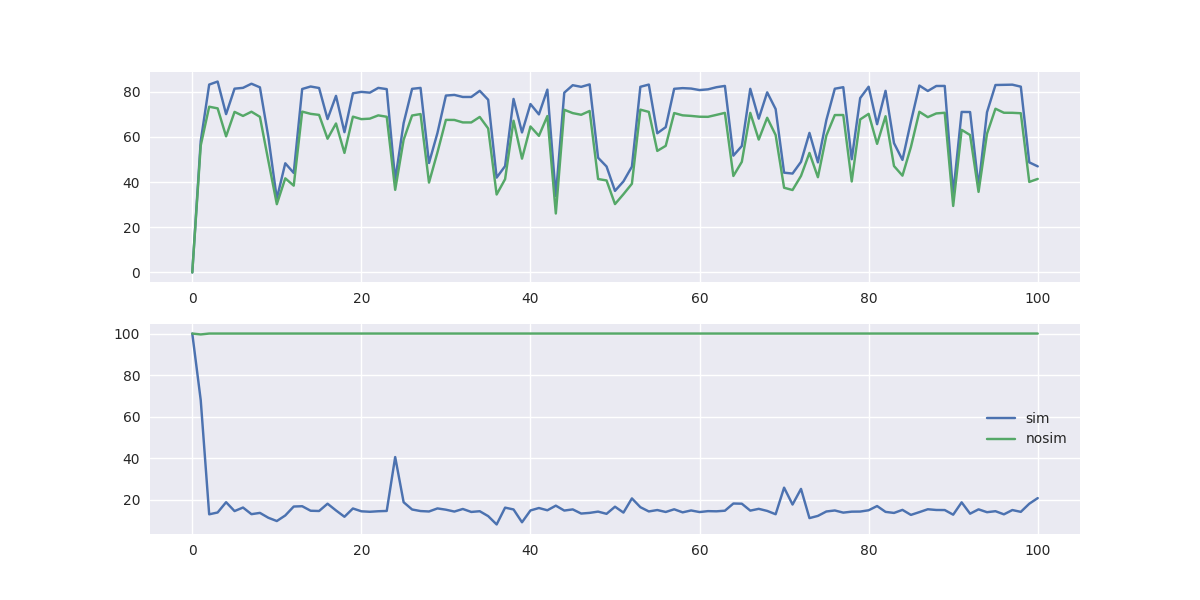
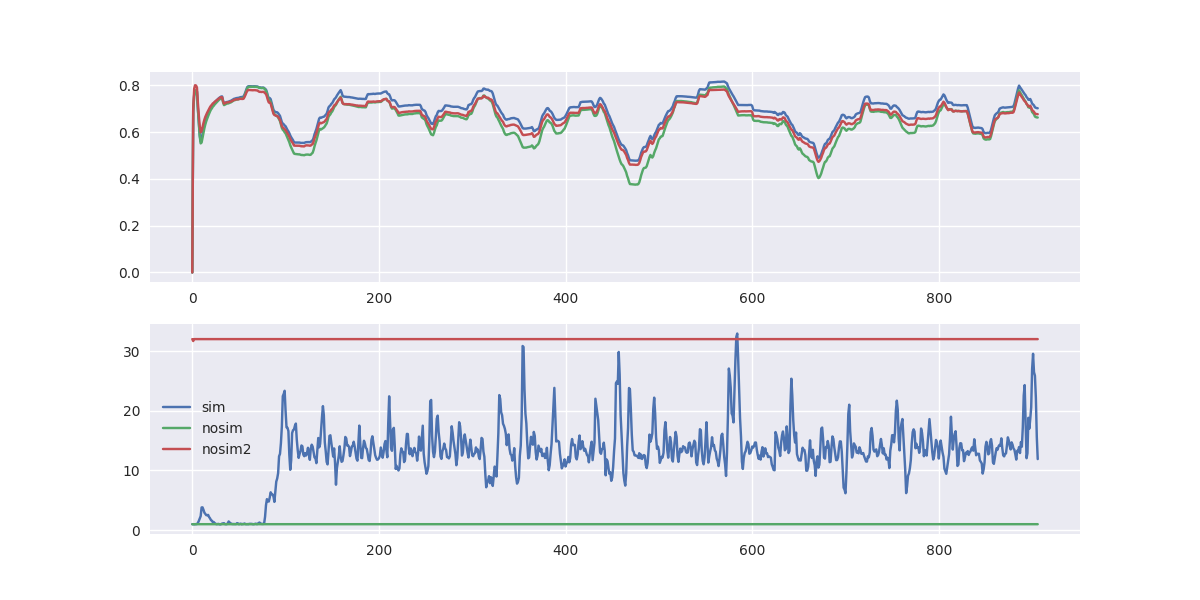
1024b

diff --git a/plots/D4.2/main.py b/plots/D4.2/main.py
@@ -80,7 +80,7 @@ def RunAndGetHitRateAndParam(policy, buffer_size, ptrace, param):
     tsum_hr = 0
     tsum_p = 0
 
-    down_sample_group_size = len(hrs) // total_size
+    down_sample_group_size = 100
     for idx, (hr, p) in enumerate(zip(hrs, ps)):
         if (idx + 1) % down_sample_group_size == 0:
             dhrs.append(tsum_hr / down_sample_group_size)
@@ -91,16 +91,18 @@ def RunAndGetHitRateAndParam(policy, buffer_size, ptrace, param):
         tsum_hr += hr
     return dhrs, dps
 
-total_size = 500
-buffer_size = 0.1
-trace = 'msr_prn_0'
-p1 = [1, 1, 6, 4, 1.0, 20000, 0.5, 0.05, 0.00, 0.01, 1, 1024, 1000]
-p2 = [1, 1, 6, 4, 1.0, 20000, 0.5, 0.05, 0.00, 0.00, 1, 1024, 1000]
+total_size = 2000
+buffer_size = 0.001
+trace = 'proj_prxy'
+p1 = [1, 1, 6, 4, 1.0, 20000, 0.5, 0.05, 0.00, 0.01, 1, 1024, 10000]
+p2 = [1, 1, 6, 4, 1.0, 20000, 0.5, 0.05, 0.00, 0.00, 1, 1024, 10000]
+p3 = [64, 1, 6, 4, 1.0, 20000, 0.5, 0.05, 0.00, 0.00, 1, 1024, 10000]
 
 if __name__ == "__main__":
     # sim_hrs, sim_ps = GetHitRateAndParam('local/webmail_0.001_sim.log')
     sim_hrs, sim_ps = RunAndGetHitRateAndParam('RGC4', buffer_size, f'traces/{trace}.lis', p1)
     nosim_hrs, nosim_ps = RunAndGetHitRateAndParam('RGC4', buffer_size, f'traces/{trace}.lis', p2)
+    nosim_hrs2, nosim_ps2 = RunAndGetHitRateAndParam('RGC4', buffer_size, f'traces/{trace}.lis', p3)
     # nosim_hrs, nosim_ps = GetHitRateAndParam('local/webmail_0.001_nosim.log')
 
     X = np.arange(len(sim_hrs))
@@ -108,17 +110,10 @@ if __name__ == "__main__":
     fig, axes = plt.subplots(2, 1, figsize=(12, 6))
 
     ax = axes[0]
-    # x_smooth = np.linspace(X.min(), X.max(), 300)
-    # spl = make_interp_spline(X, sim_hrs)
-    # sim_hrs_smooth = spl(x_smooth)
-    # ax.plot(x_smooth, sim_hrs_smooth, label='sim')
     ax.plot(X, sim_hrs, label='sim')
 
-    # spl = make_interp_spline(X, nosim_hrs)
-    # nosim_hrs_smooth = spl(x_smooth)
-    # ax.plot(x_smooth, nosim_hrs_smooth, label='nosim')
     ax.plot(X, nosim_hrs, label='nosim')
-
+    ax.plot(X, nosim_hrs2, label='nosim2')
     # plt.legend()
     # plt.savefig(f'plots/D4.2/{trace}_1.png')
 
@@ -134,7 +129,7 @@ if __name__ == "__main__":
     # nosim_ps_smooth = spl(x_smooth)
     # ax.plot(x_smooth, nosim_ps_smooth, label='nosim')
     ax.plot(X, nosim_ps, label='nosim')
-
+    ax.plot(X, nosim_ps2, label='nosim2')
     plt.legend()
     plt.savefig(f'plots/D4.2/{trace}_2.png')
 
